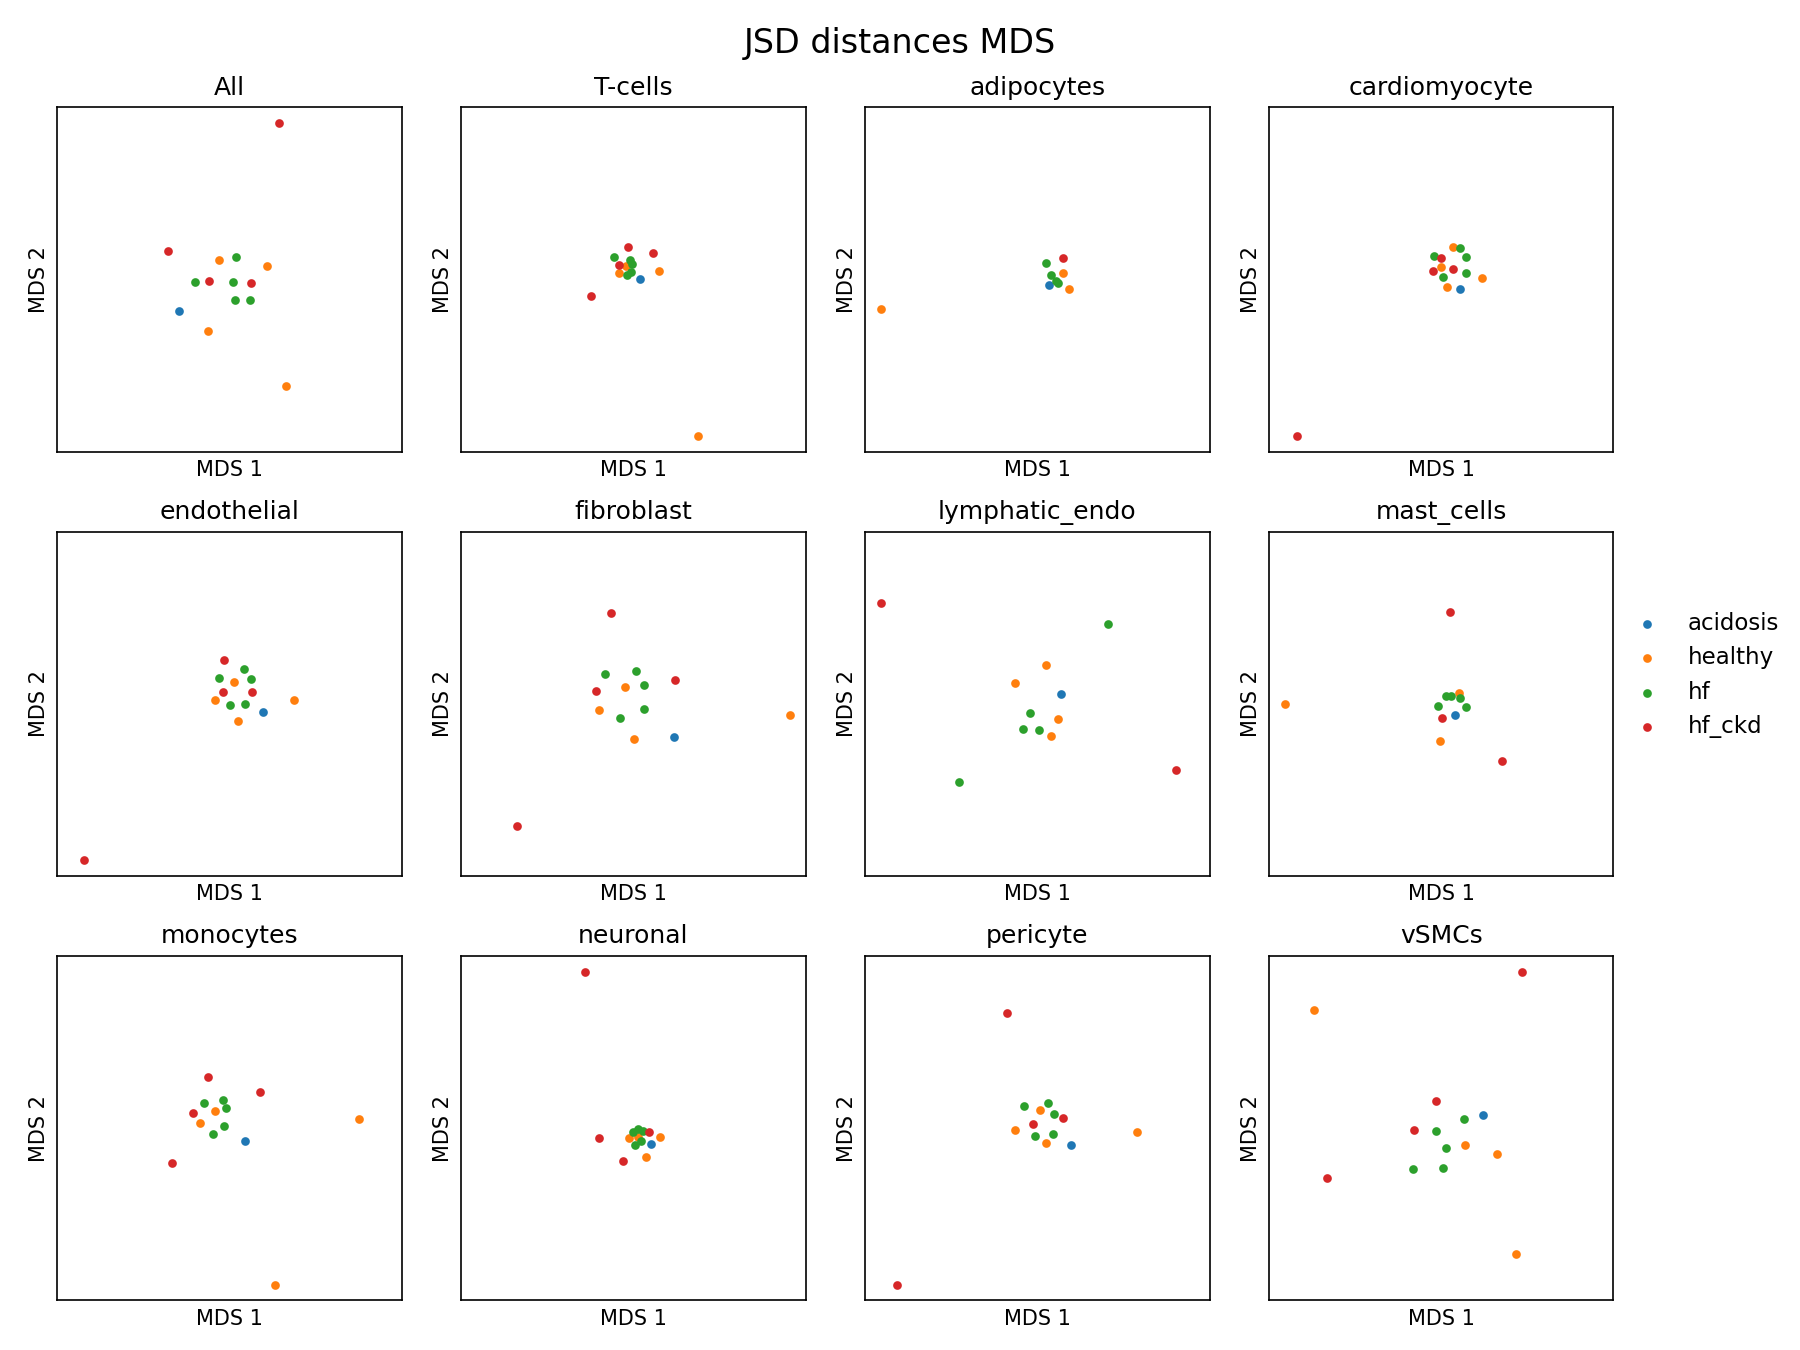
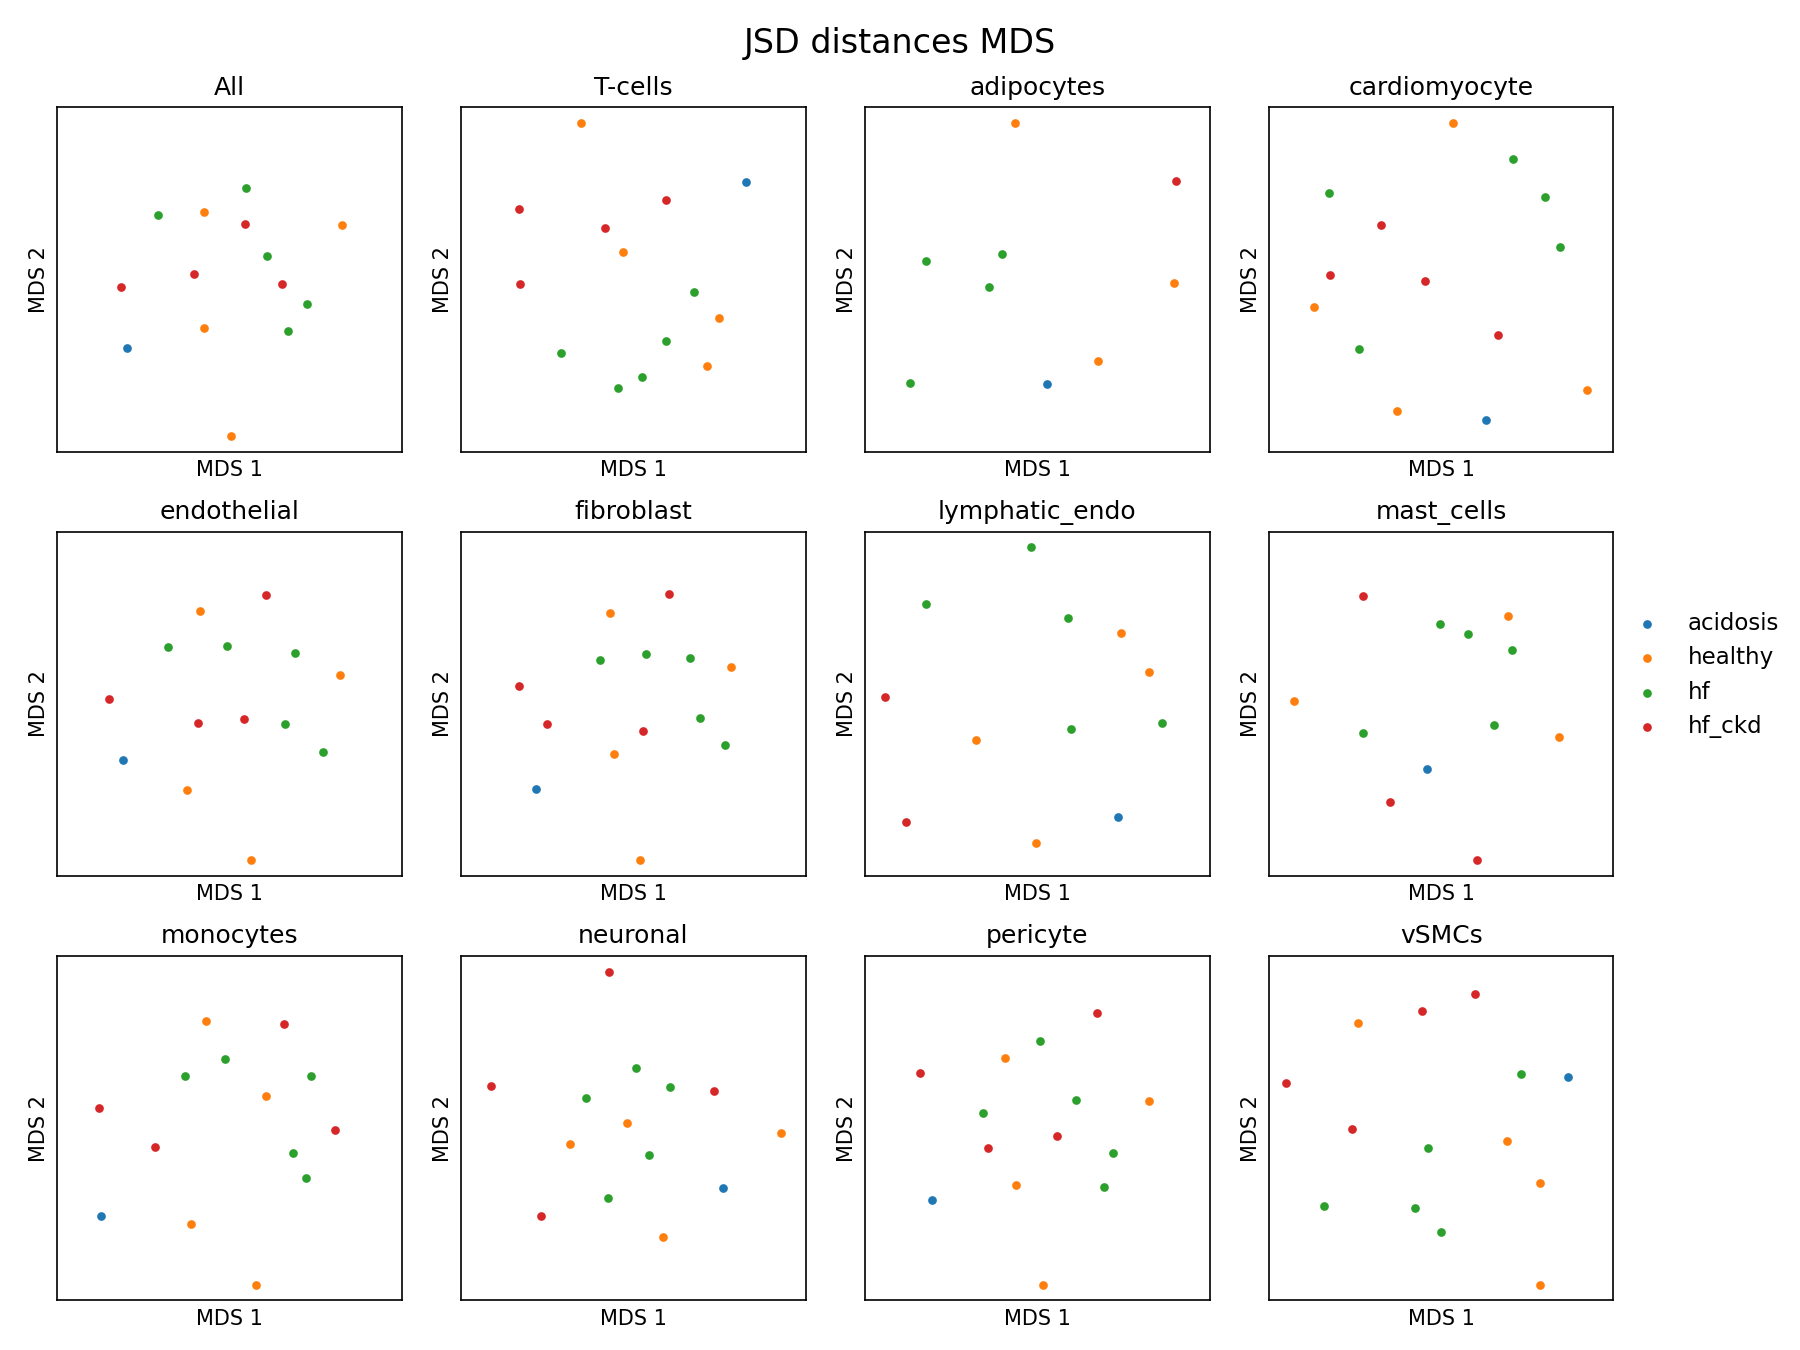
Now pbulk checks for min expressed genes

diff --git a/scripts/run_angdist.py b/scripts/run_angdist.py
@@ -42,9 +42,15 @@ for i,cond_a in enumerate(conditions):
                 adata_a = adata[(adata.obs['condition']==cond_a)&(adata.obs['cell_type']==cell_type)]
                 adata_b = adata[(adata.obs['condition']==cond_b)&(adata.obs['cell_type']==cell_type)]
                 
+                # Get all genes that have at least some expression
+                msk = (~(adata_a.X == 0).any(axis=0)) & (~(adata_b.X == 0).any(axis=0))
+                adata_a = adata_a[:,msk]
+                adata_b = adata_b[:,msk]
+                
                 #  Compute mean within groups as norm factor
                 norm = (get_group_sum_dis(adata_a) + get_group_sum_dis(adata_b)) / \
                 (adata_a.shape[0] + adata_b.shape[0])
+                
                 if norm == 0.0:
                     norm = 1
                 # Compute all possible interactions

diff --git a/scripts/run_jsdd.py b/scripts/run_jsdd.py
@@ -47,6 +47,11 @@ for cell_type in cell_types:
                 x_a = sub_adata.X[msk_a].toarray()[0]
                 x_b = sub_adata.X[msk_b].toarray()[0]
                 
+                # Get only genes that have at least some shared expression
+                msk = (~(x_a == 0)) & (~(x_b == 0))
+                x_a = x_a[msk]
+                x_b = x_b[msk]
+                
                 # Get min proportion
                 w_a = sub_adata.obs['cell_prop'][msk_a]
                 w_b = sub_adata.obs['cell_prop'][msk_b]
